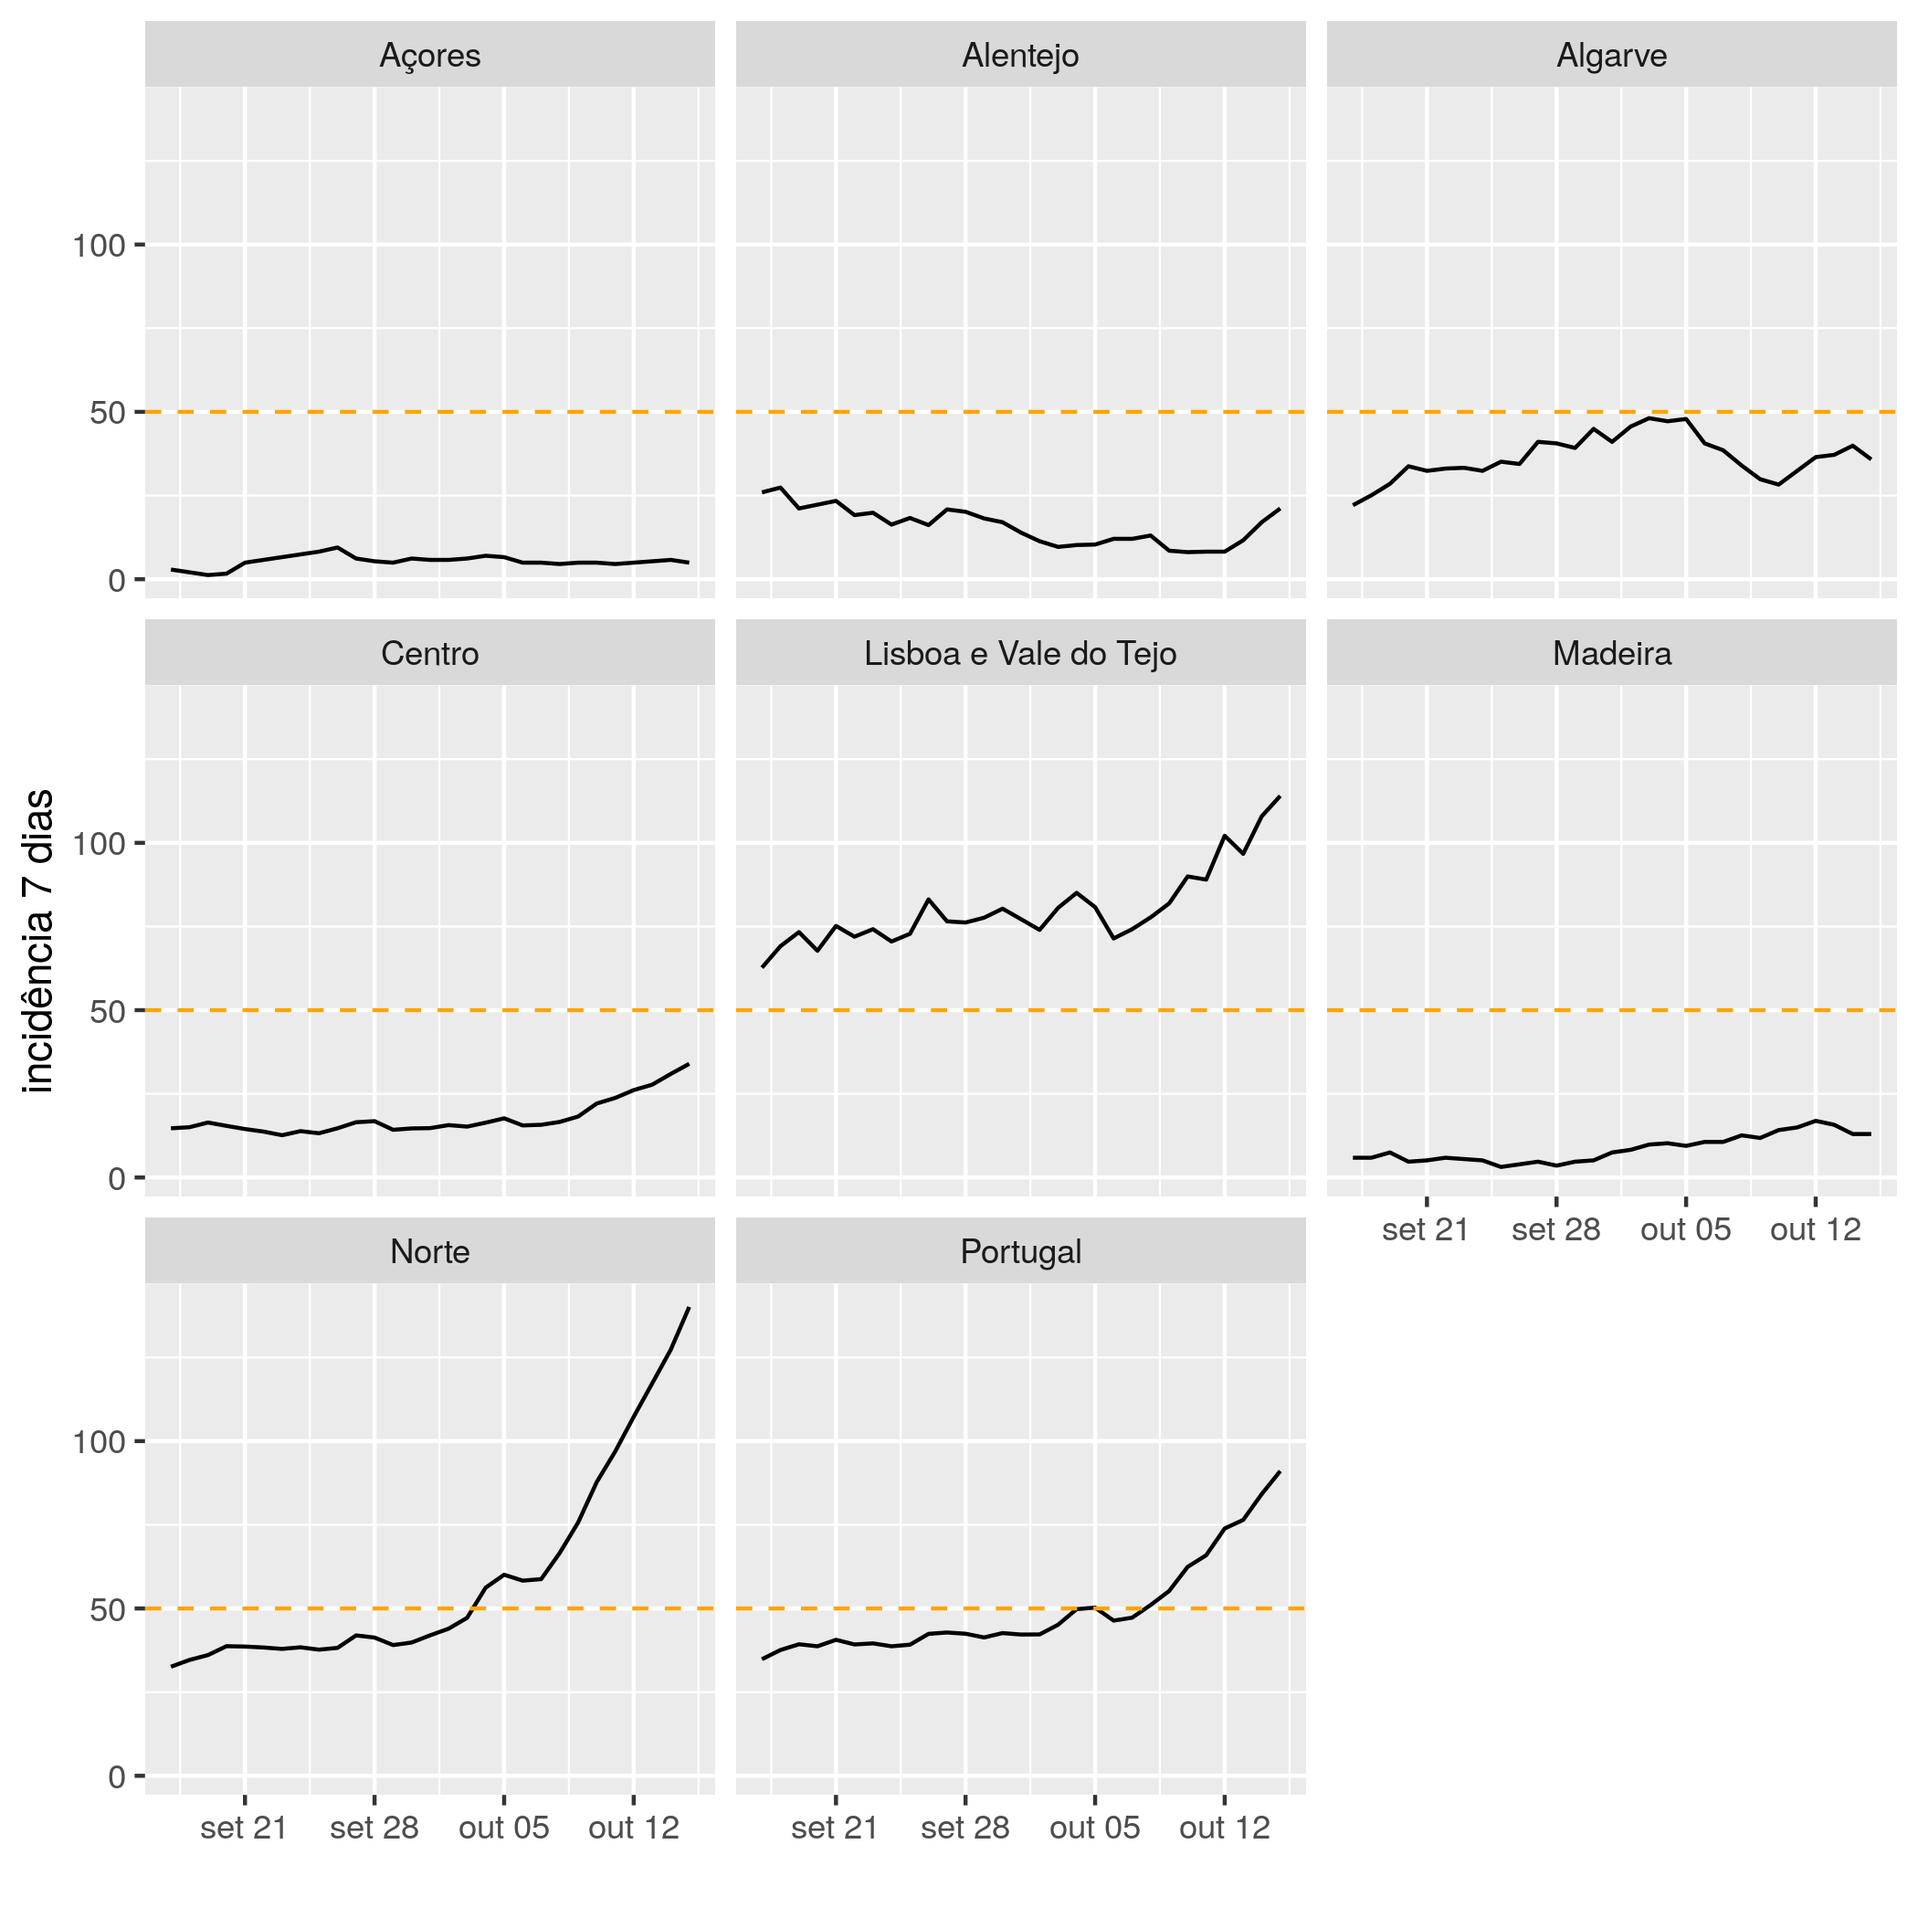
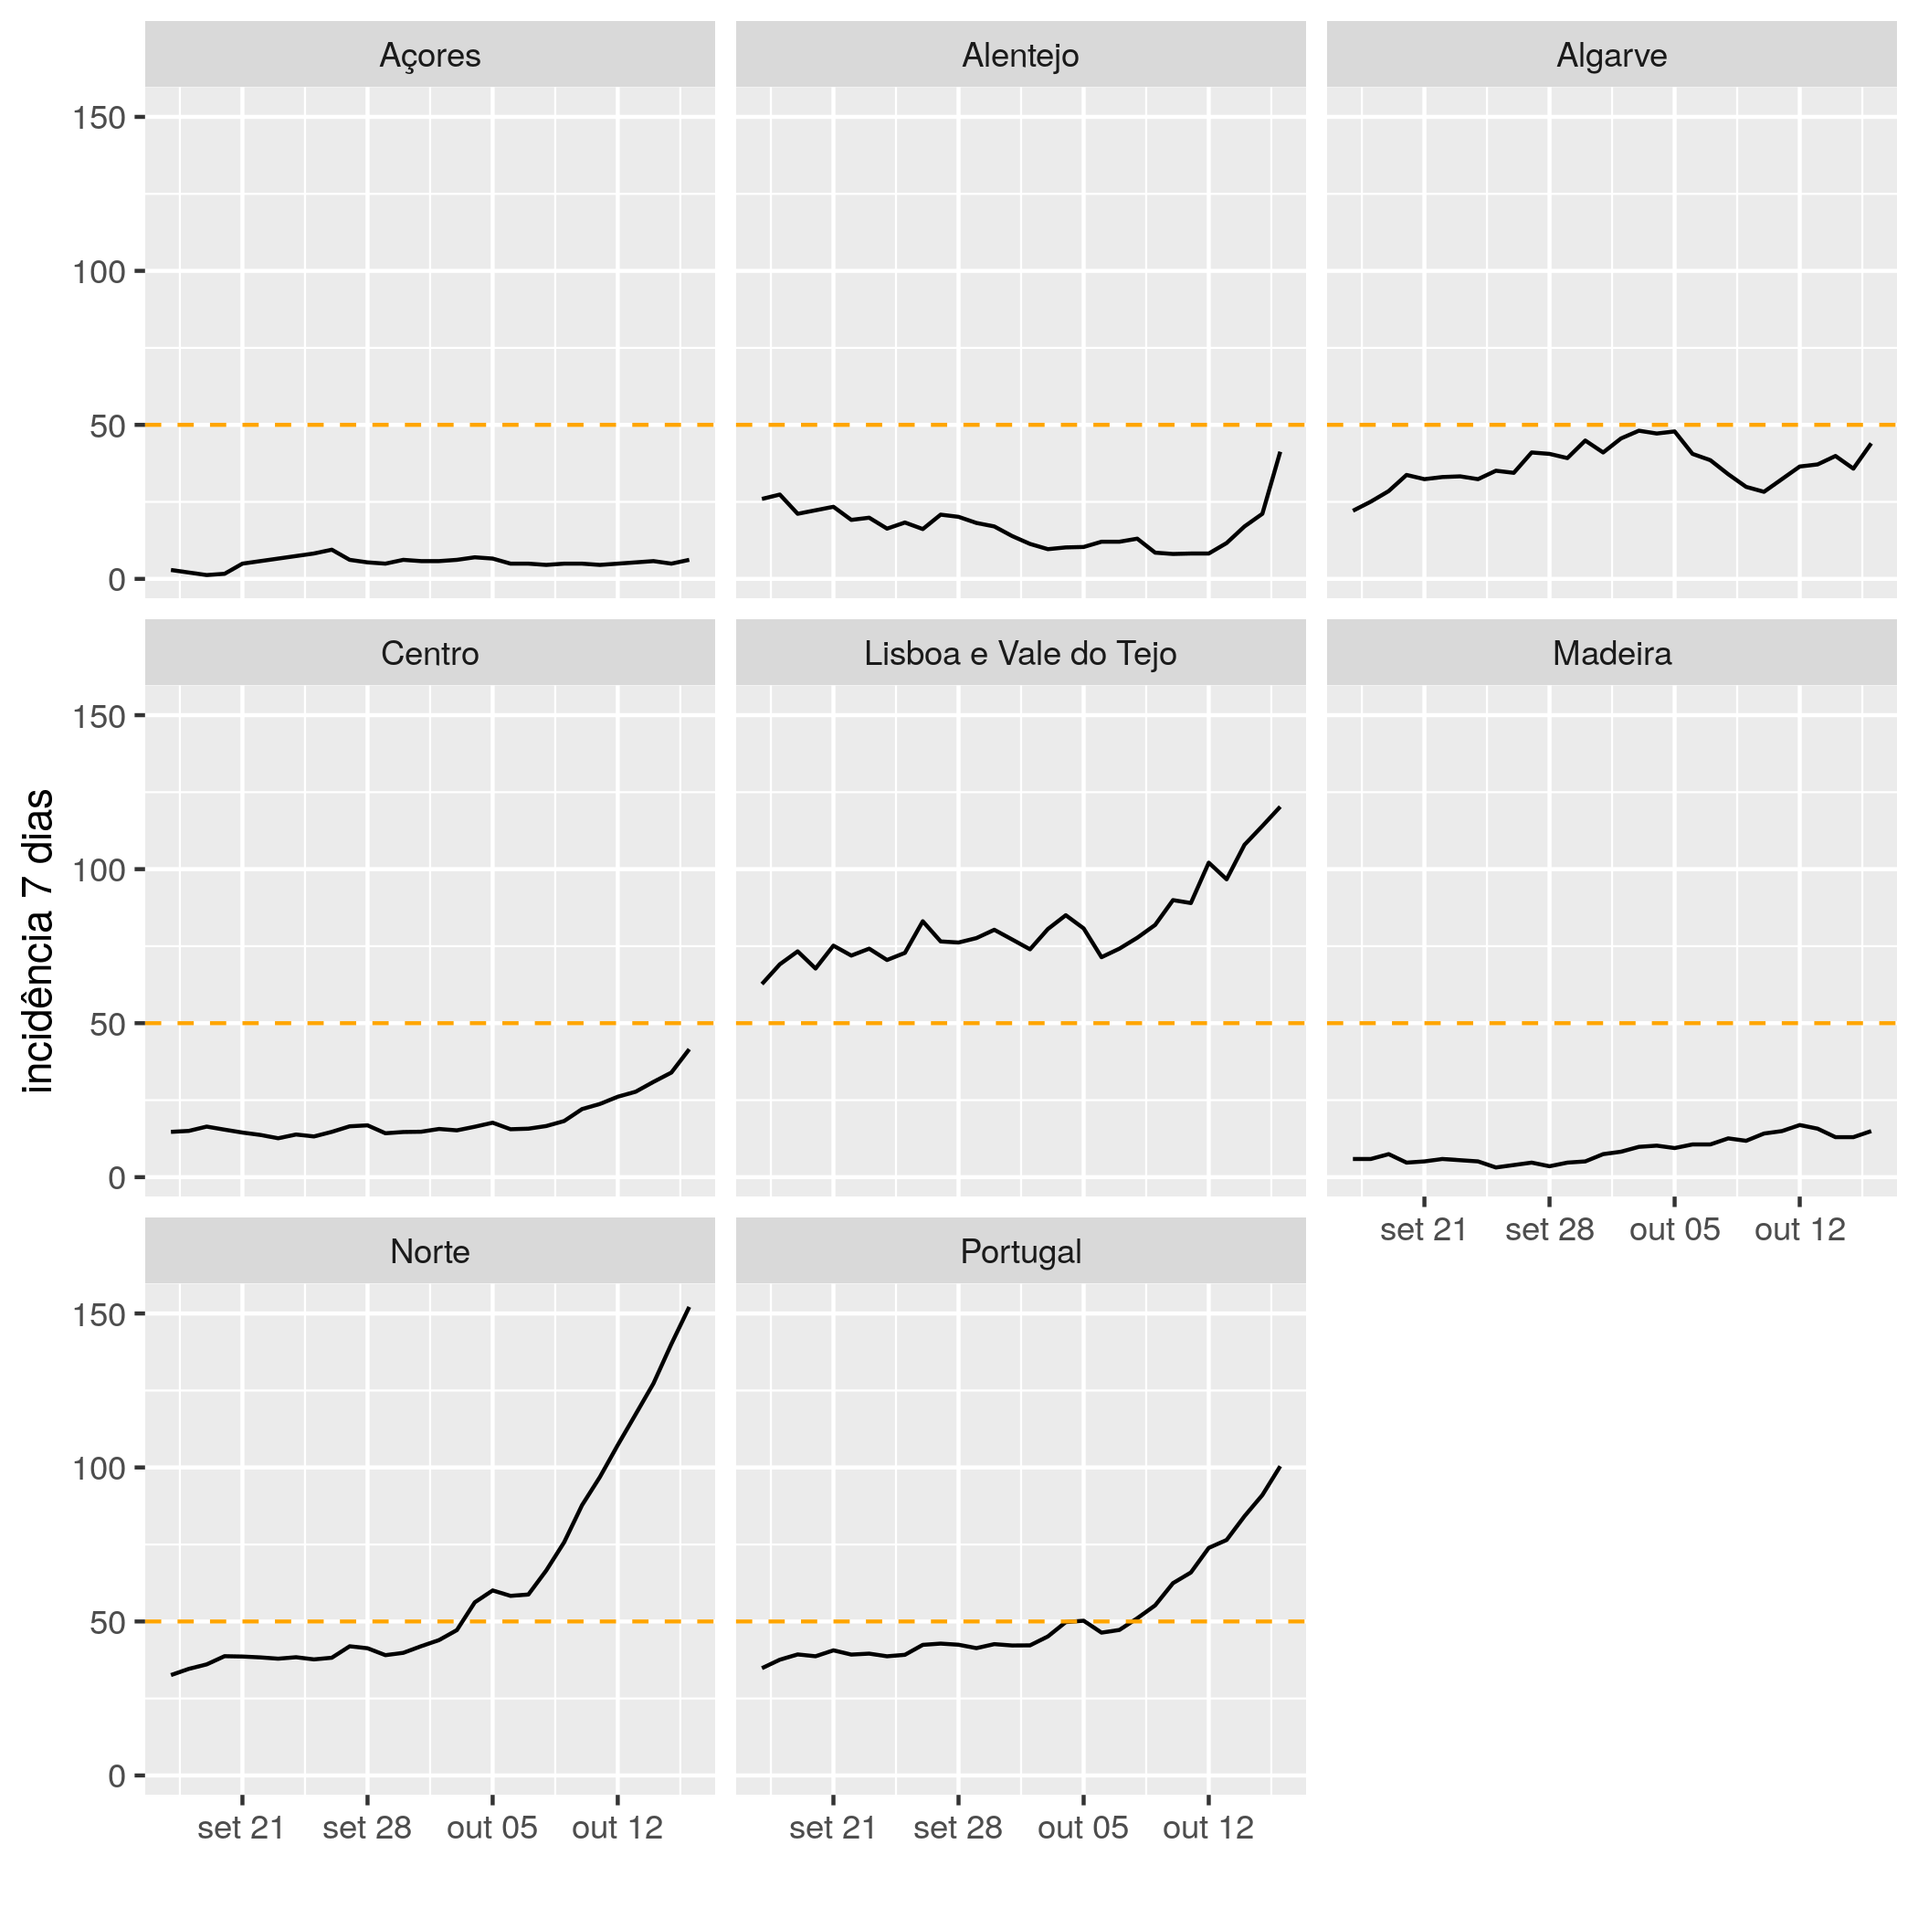
sexta feira

diff --git a/README.md b/README.md
@@ -1,7 +1,7 @@
 # Contexto
 A incidência por 100000 habitantes em 7 dias é o valor de referência para decretar regiões de risco pelas autoridades de saúde alemãs (valor charneira é 50, ie LVT já é região de risco). Gráficos atualizados diariamente. Para ajudar quem quer viajar para a Alemanha ou vir passar férias a Portugal.
 
-Dados mais recentes de 2020-10-15.
+Dados mais recentes de 2020-10-16.
 
 # Incidência por 100000 habitantes em 7 dias
 ## Últimos 30 dias
